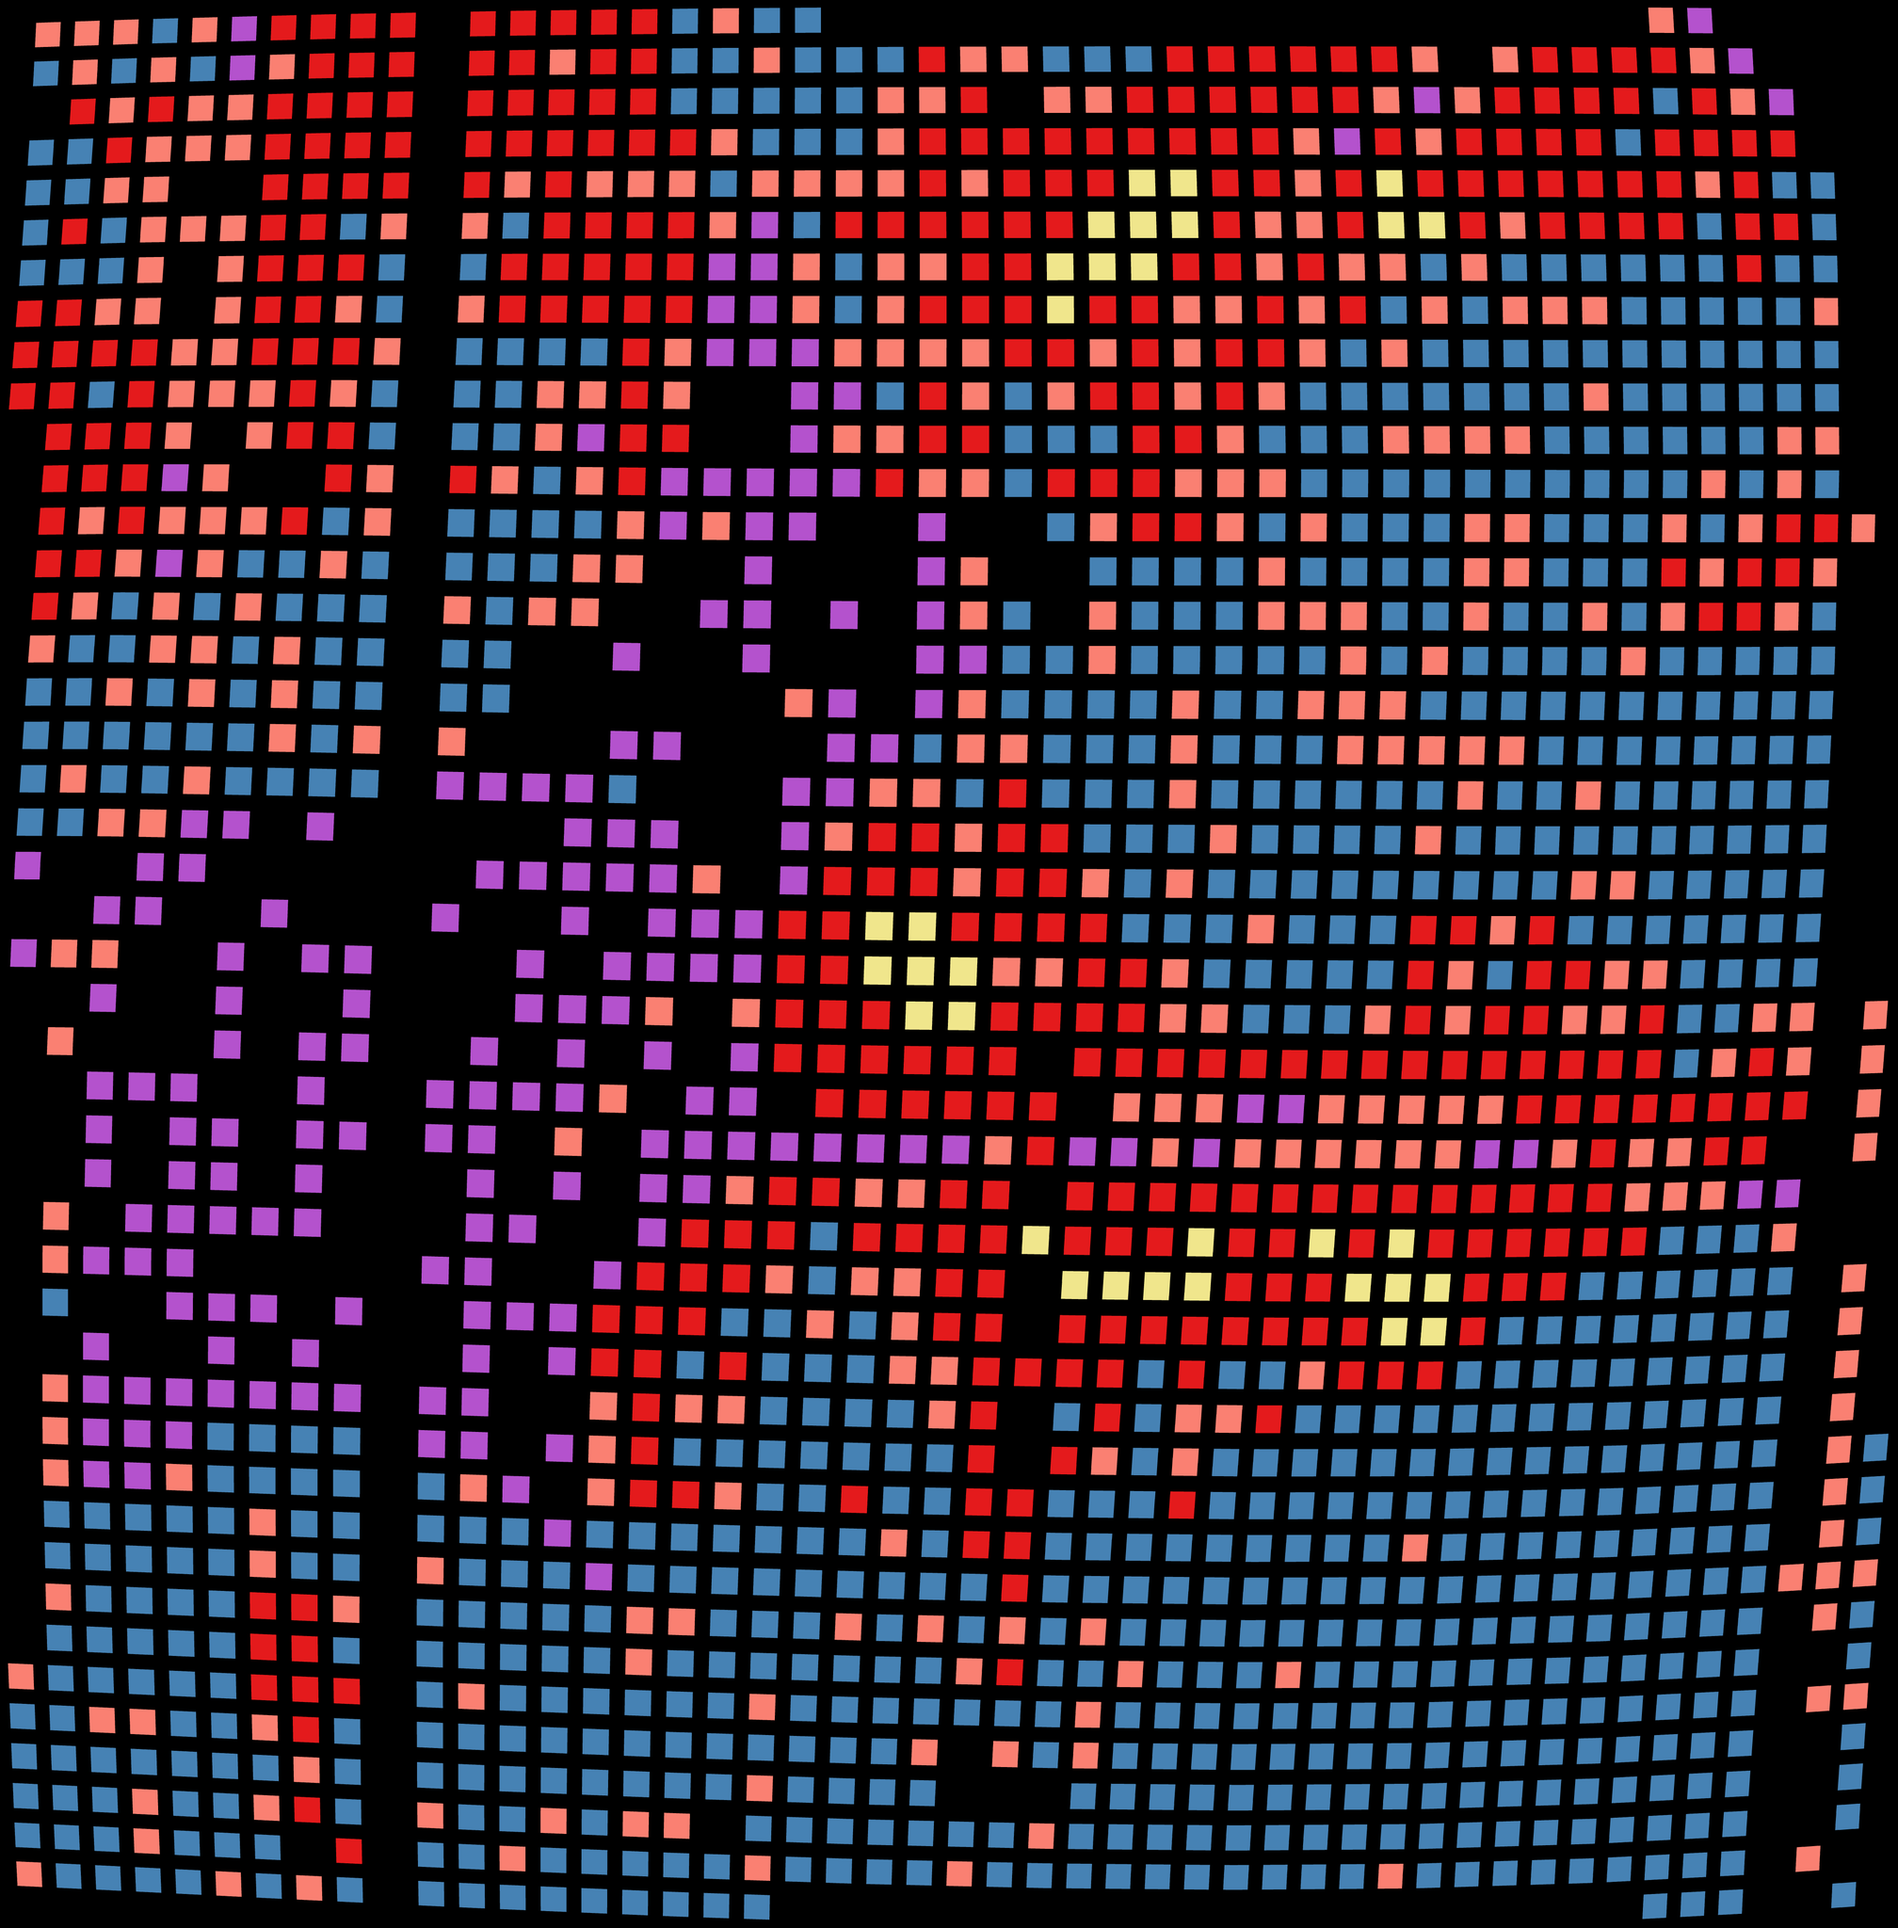
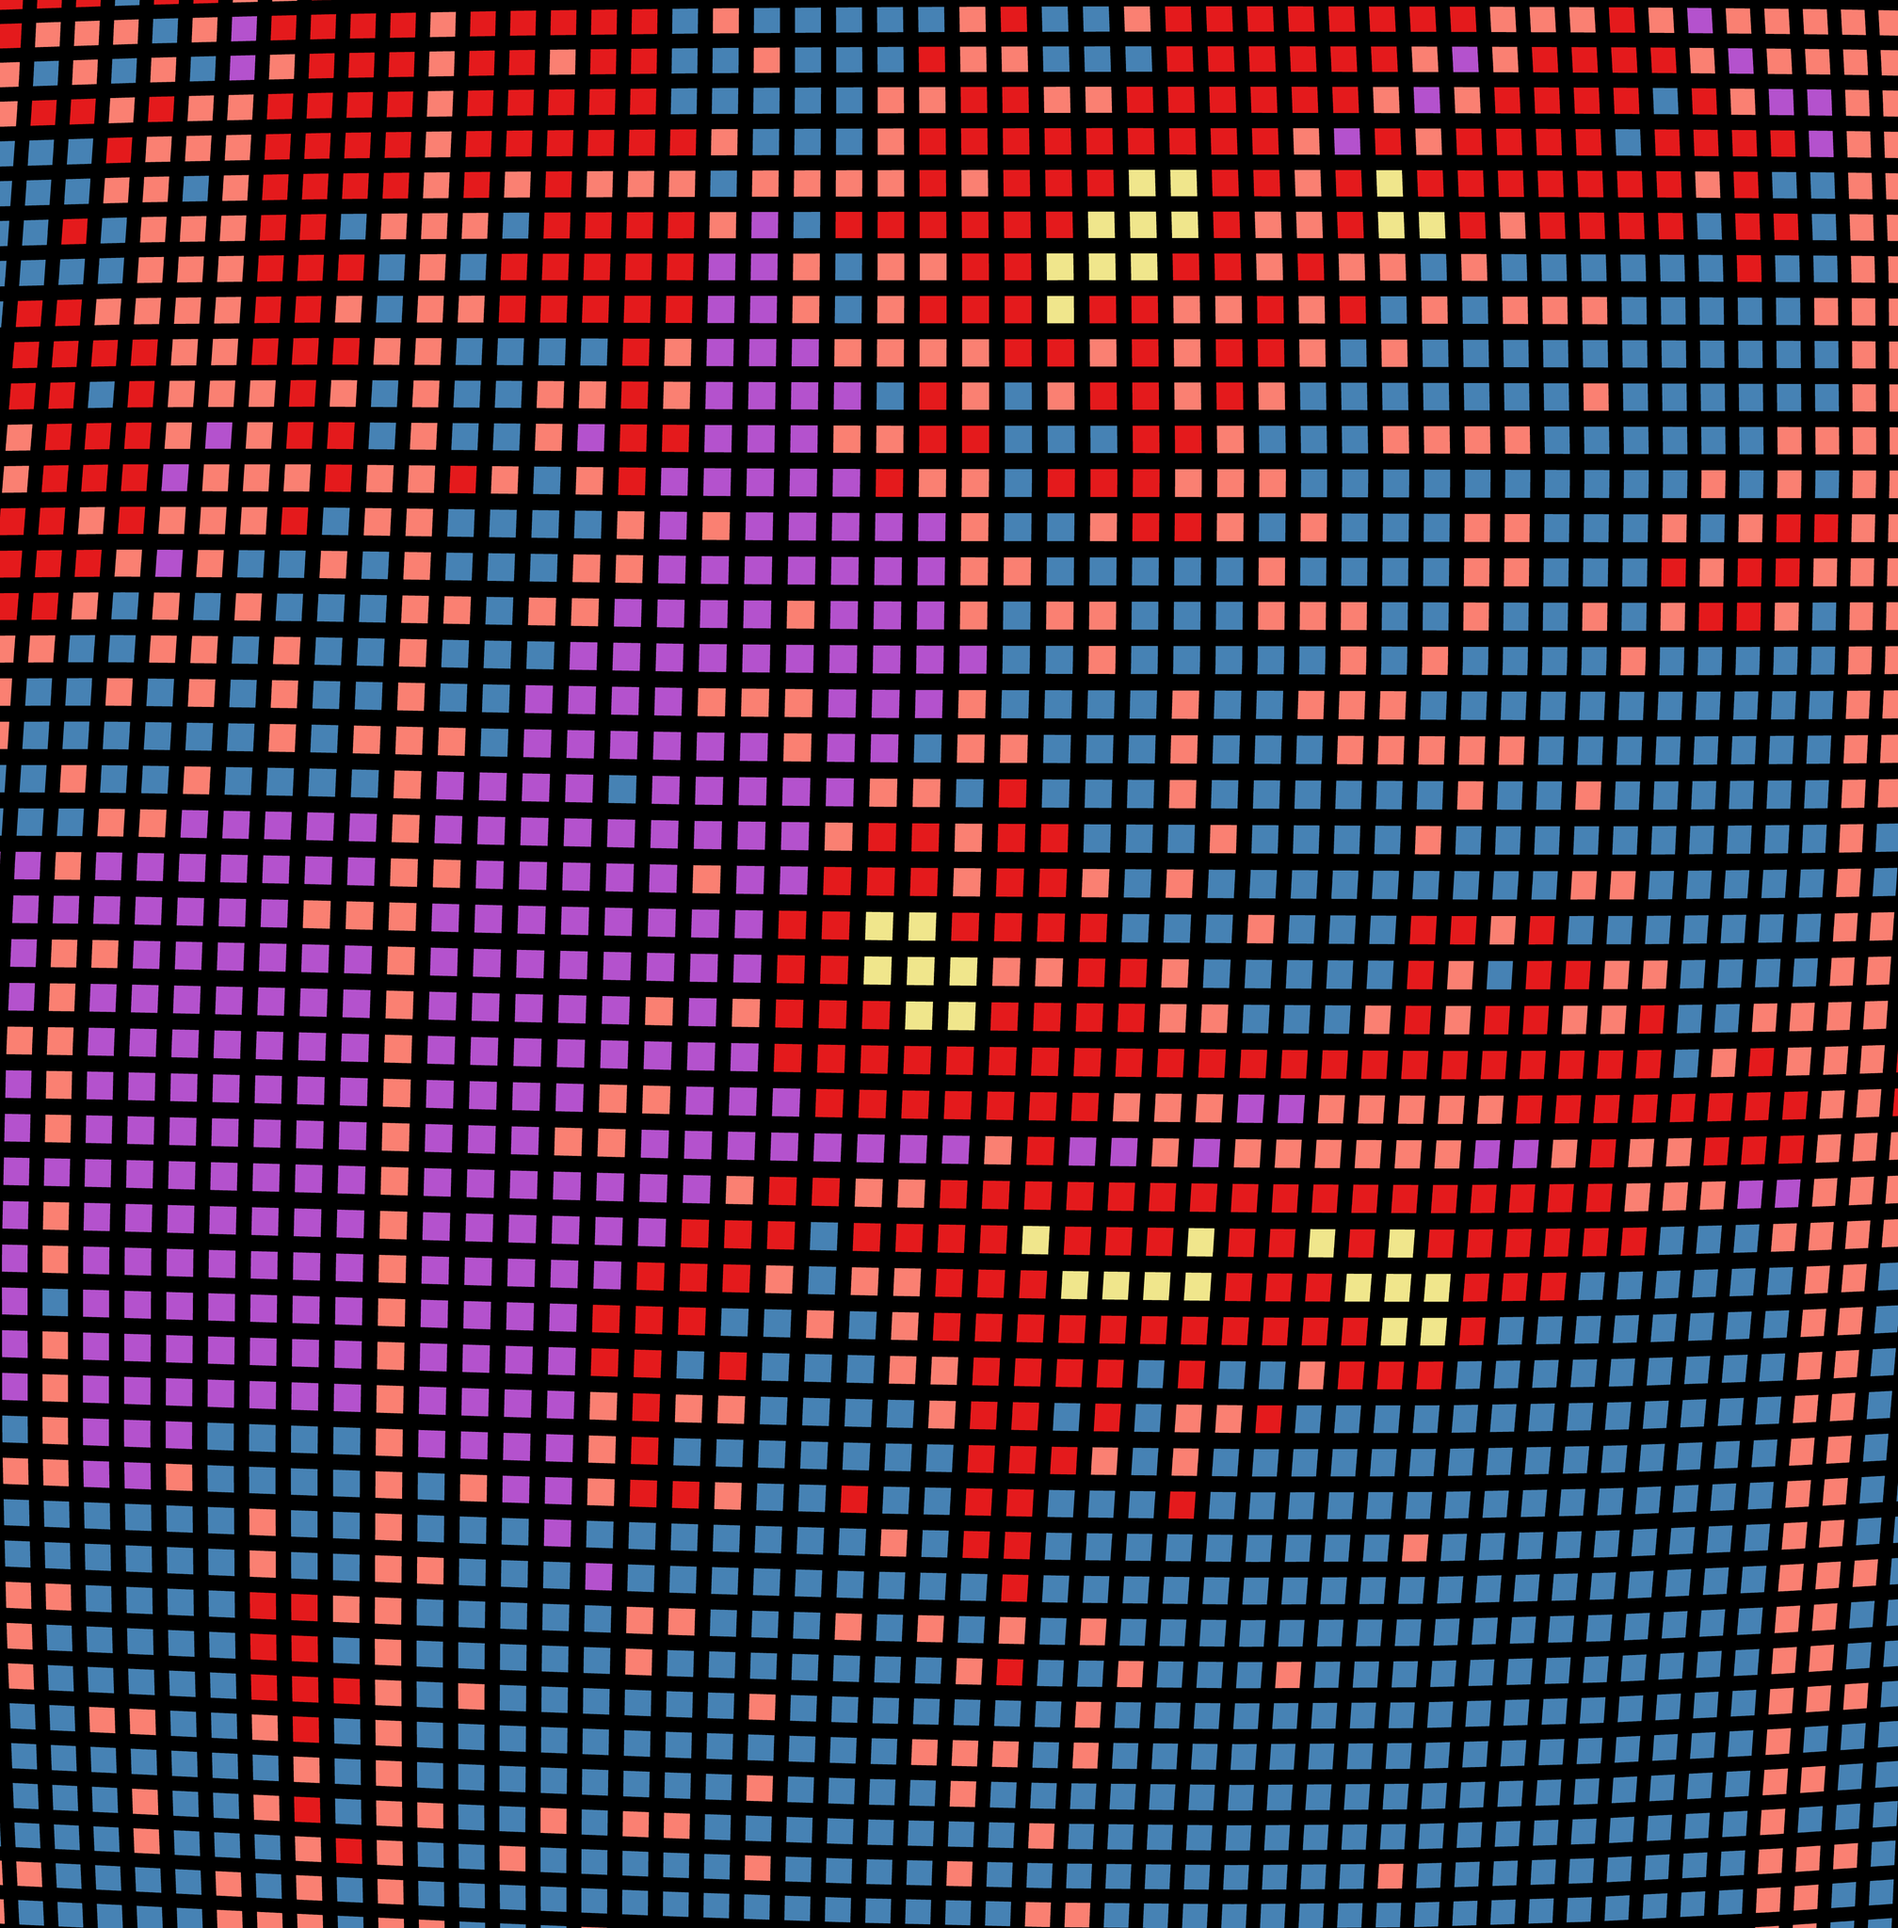
Render all DBiT cluster spots

diff --git a/app.js b/app.js
@@ -14,7 +14,7 @@
       ],
     },
     clusters: {
-      src: "assets/clusters.png?v=20260917-black-1", label: "Clusters 0–4",
+      src: "assets/clusters.png?v=20260917-all2500-1", label: "Clusters 0–4",
       legend: [
         ["Cluster 0", "#4682B4"], ["Cluster 1", "#FA8072"],
         ["Cluster 2", "#E41A1C"], ["Cluster 3", "#B452CD"],

diff --git a/index.html b/index.html
@@ -98,6 +98,6 @@
     </details>
   </main>
 
-  <script src="app.js?v=20260917-black-1"></script>
+  <script src="app.js?v=20260917-all2500-1"></script>
 </body>
 </html>
